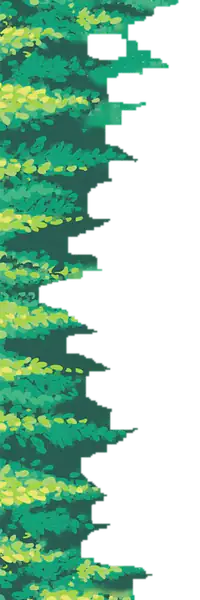
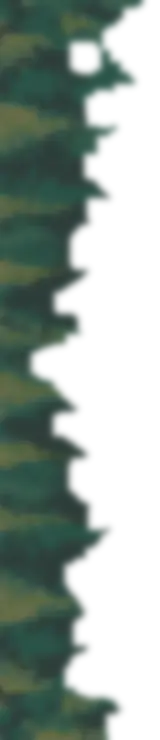
Bake blur into foliage bands, darken them, and make them narrower

diff --git a/index.html b/index.html
@@ -41,14 +41,12 @@
       background: linear-gradient(rgba(14, 10, 6, 0.55), rgba(14, 10, 6, 0.15) 35%, rgba(14, 10, 6, 0.6));
     }
     /* Foliage bands hug the left and right screen edges (the frame, rotated 90 degrees and split in two).
-       Blurred on purpose: the eye should rest on Rivendell, the foliage is only context.
-       Overscanned past the edges so the blur doesn't fade out at the screen border. */
+       The blur, darkening and opacity are baked into the image files: a live CSS blur on a fixed,
+       scrolling layer made the browser repaint it for seconds. Overscanned past the screen edges. */
     .bg-front {
       width: auto;
       height: 130vh;
       z-index: -1;
-      filter: blur(6px);
-      opacity: 0.92;
     }
     .bg-front.left { left: -3rem; }
     .bg-front.right { left: auto; right: -3rem; }
